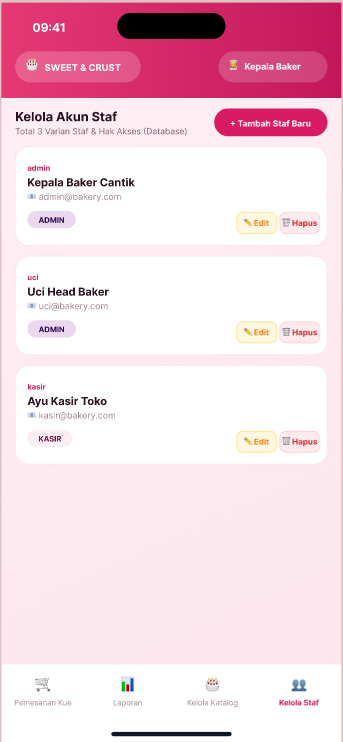
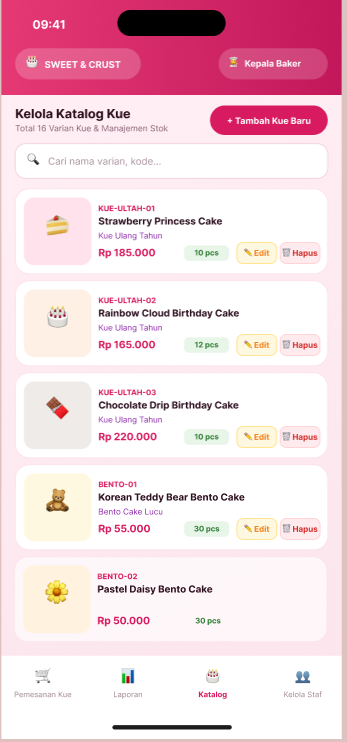
feat: add mobile Kelola Akun Staf screen to Sweet & Crust project gallery

diff --git a/script.js b/script.js
@@ -198,7 +198,8 @@ const projectsData = {
             "gambar/sc-registrasi.png",
             "gambar/sc-katalog.png",
             "gambar/sc-laporan-omzet.png",
-            "gambar/sc-kelola-katalog-mobile.png"
+            "gambar/sc-kelola-katalog-mobile.png",
+            "gambar/sc-kelola-staf-mobile.png"
         ],
         descId: `
             <p>Sweet & Crust merupakan konsep platform <em>Point of Sale (POS) & Management for Modern Bakeries</em> berbasis mobile yang dirancang di Figma untuk mendukung modernisasi operasional toko roti. Proyek ini mencakup perancangan antarmuka pengguna (UI/UX), riset kebutuhan operasional toko bakery, penyusunan alur kasir terintegrasi (<em>seamless cashier interface</em>), serta perencanaan fitur pelaporan omzet real-time dan manajemen multi-user role. Solusi yang dirancang bertujuan membantu pemilik bakery dan staf dalam efisiensi pencatatan transaksi, katalog varian kue, pengelolaan stok, dan pemantauan performa bisnis secara terintegrasi.</p>
